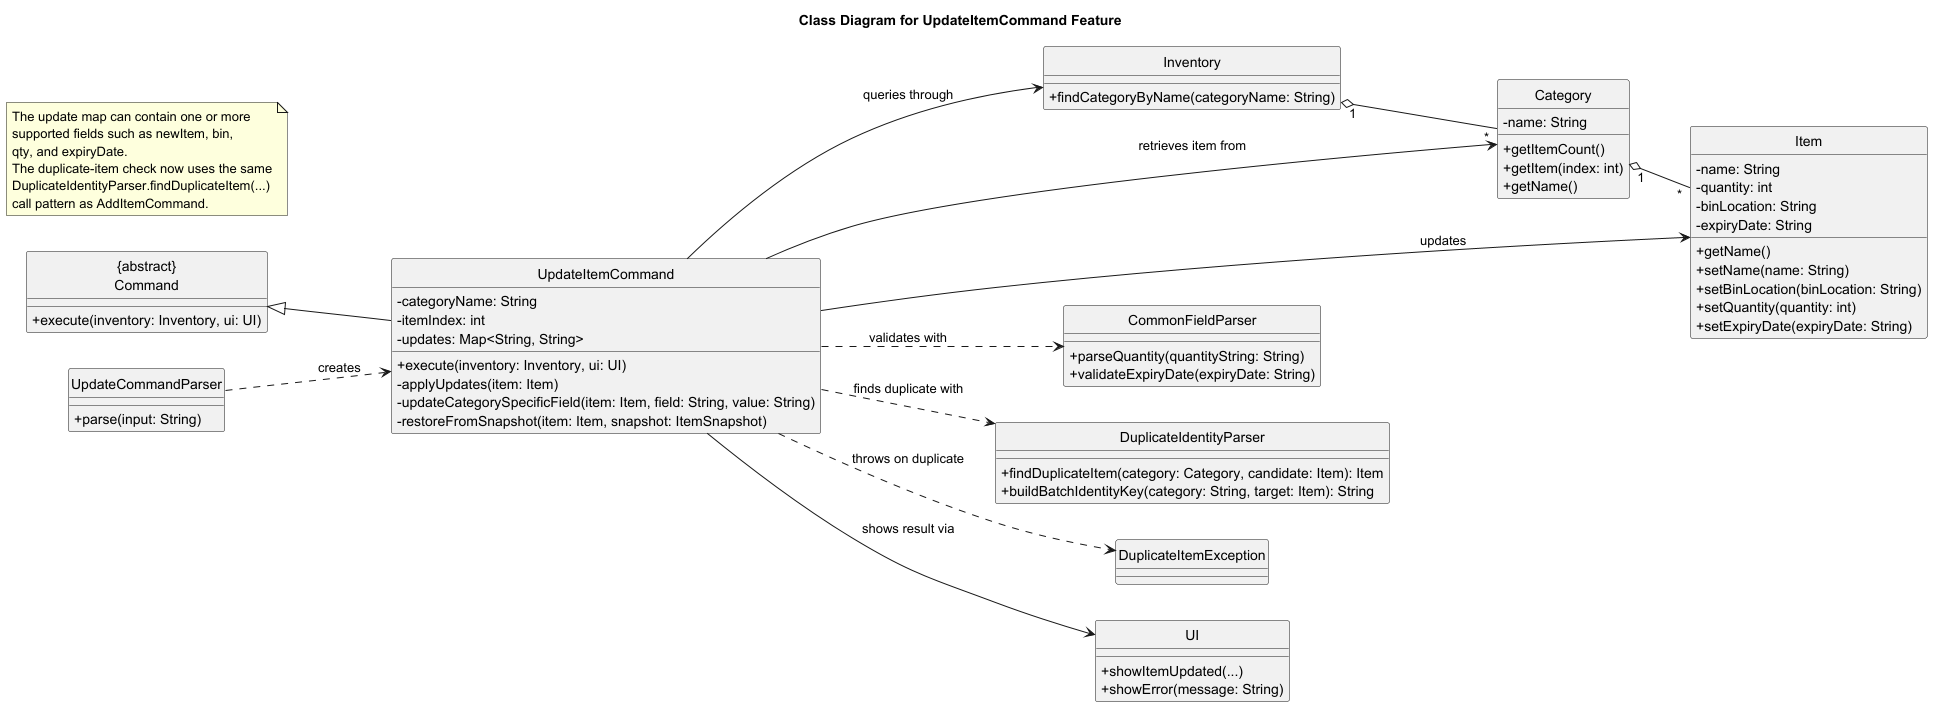
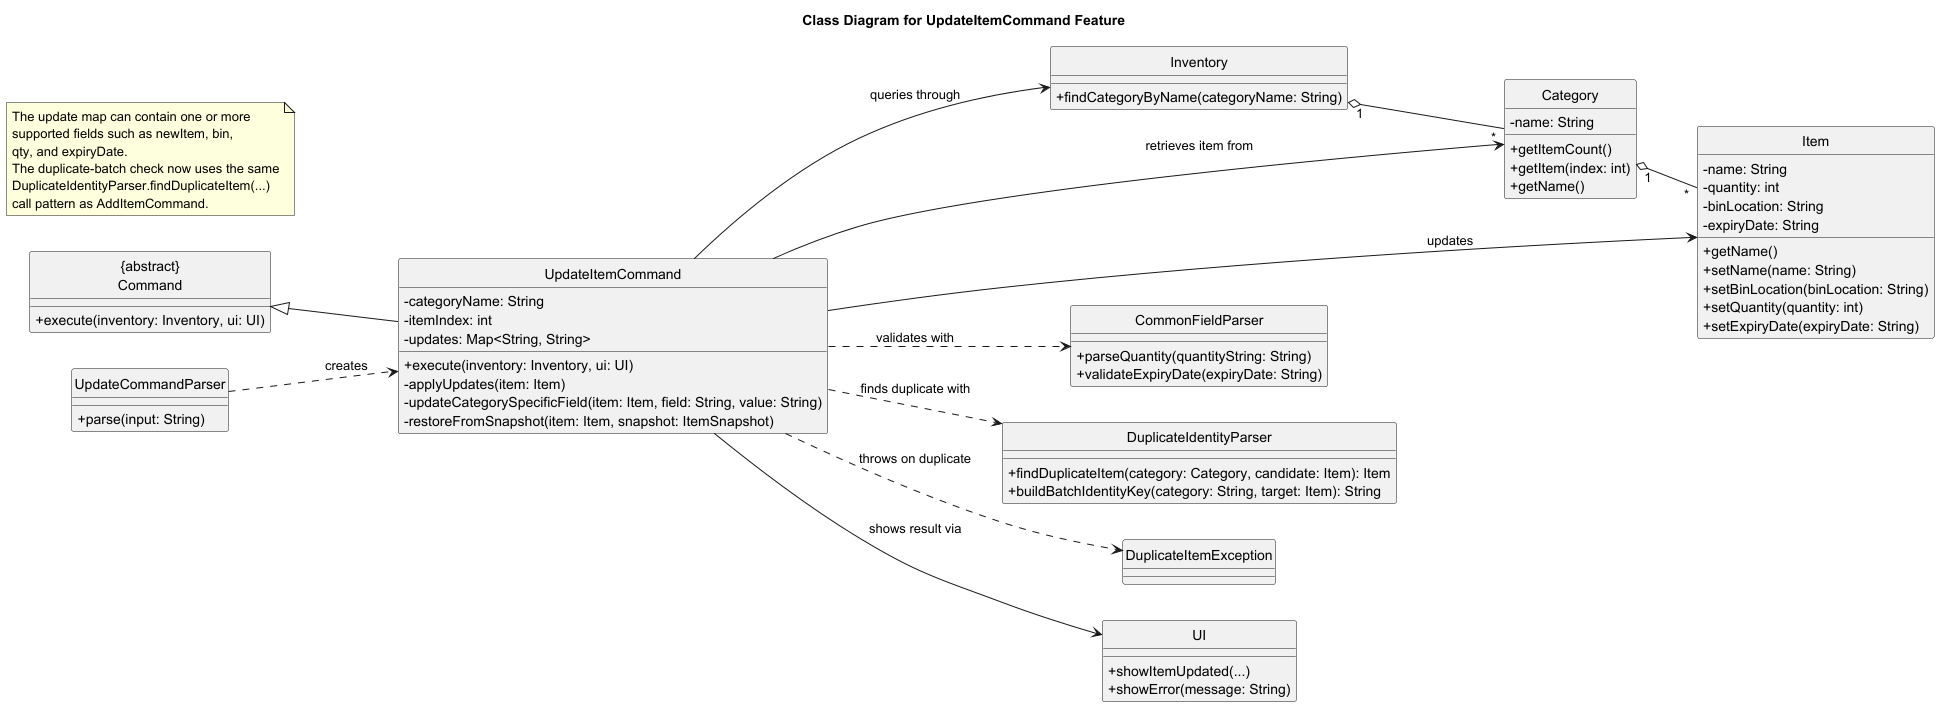
Bug fix

diff --git a/src/test/java/seedu/inventorydock/parser/DuplicateIdentityParserTest.java b/src/test/java/seedu/inventorydock/parser/DuplicateIdentityParserTest.java
@@ -9,9 +9,9 @@ import static org.junit.jupiter.api.Assertions.assertNotEquals;
 
 public class DuplicateIdentityParserTest {
     @Test
-    public void buildBatchIdentityKey_sameItemDifferentCase_returnsSameKey() {
+    public void buildBatchIdentityKey_sameLogicalBatchDifferentQtyAndBin_returnsSameKey() {
         Item firstItem = new Fruit("Apple", 2, "A-01", "2026-01-01", true);
-        Item secondItem = new Fruit("apple", 2, "A-01", "2026-01-01", true);
+        Item secondItem = new Fruit("apple", 10, "B-09", "2026-01-01", true);
 
         String firstKey = DuplicateIdentityParser.buildBatchIdentityKey("fruits", firstItem);
         String secondKey = DuplicateIdentityParser.buildBatchIdentityKey("fruits", secondItem);
@@ -20,7 +20,7 @@ public class DuplicateIdentityParserTest {
     }
 
     @Test
-    public void buildBatchIdentityKey_differentItemFields_returnsDifferentKey() {
+    public void buildBatchIdentityKey_differentLogicalBatch_returnsDifferentKey() {
         Item firstItem = new Fruit("Apple", 2, "A-01", "2026-01-01", true);
         Item secondItem = new Fruit("Apple", 10, "B-09", "2026-02-01", true);
 

diff --git a/src/main/java/seedu/inventorydock/parser/DuplicateIdentityParser.java b/src/main/java/seedu/inventorydock/parser/DuplicateIdentityParser.java
@@ -5,7 +5,7 @@ import seedu.inventorydock.model.Item;
 
 /**
  * Builds normalized identity keys used for duplicate-item checks.
- * The key compares the full stored item identity case-insensitively.
+ * The key ignores qty and bin fields so only logical batch identity is compared.
  */
 public class DuplicateIdentityParser {
     /**
@@ -24,6 +24,9 @@ public class DuplicateIdentityParser {
 
         String[] tokens = storageString.split(" ");
         for (String token : tokens) {
+            if (token.startsWith("qty/") || token.startsWith("bin/")) {
+                continue;
+            }
             key.append(token.toLowerCase()).append(" ");
         }
 
@@ -32,7 +35,7 @@ public class DuplicateIdentityParser {
 
     /**
      * Finds an existing item in the category that has the same duplicate identity as the candidate item.
-     * The duplicate identity compares all stored fields case-insensitively.
+     * The duplicate identity ignores qty and bin, and compares the remaining stored fields.
      *
      * @param category Category to scan.
      * @param candidate Item whose duplicate match is being searched.

diff --git a/docs/DeveloperGuide.md b/docs/DeveloperGuide.md
@@ -134,7 +134,7 @@ application. The feature follows this flow:
 3. `AddCommandParser` validates `category/`, extracts the category, and routes to the matching category-specific method in `AddItemCommandParser`.
 4. `AddItemCommandParser` validates the remaining fields, parses the shared fields and the category-specific boolean field, constructs the correct `Item` subtype, and creates an `AddItemCommand`. In the first diagram, this is illustrated using `Fruit` as the concrete example.
 5. `InventoryDock` executes the command with access to the current `Inventory` and `UI`.
-6. The command finds the target category, rejects duplicate items using a normalized identity key that includes all stored fields, then inserts the item or reports the error through `UI`.
+6. The command finds the target category, rejects duplicate logical batches using a normalized identity key (ignoring `qty/` and `bin/`), then inserts the item or reports the error through `UI`.
 
 Sequence diagrams:
 
@@ -195,7 +195,7 @@ The responsibilities of these classes are as follows:
   `category/`.
 - `AddItemCommandParser` coordinates common-field parsing, boolean-field parsing, and construction of the category-specific `Item` subtype.
 - `BooleanFieldParser` parses and validates the single boolean field required by each concrete `Item` subtype.
-- `AddItemCommand` performs duplicate-item checking and insertion into the inventory.
+- `AddItemCommand` performs duplicate-batch checking and insertion into the inventory.
 - `Inventory` finds the matching category by name.
 - `Category` stores the added item.
 - `Item` and its subclasses represent the domain object being created.
@@ -219,8 +219,8 @@ When the user enters an add command, the implementation performs the following s
 7. `InventoryDock` executes `AddItemCommand.execute(inventory, ui)`.
 8. `AddItemCommand` calls `inventory.findCategoryByName(categoryName)`.
 9. If the category exists, `AddItemCommand` calls `DuplicateIdentityParser.findDuplicateItem(category, item)`.
-10. The duplicate-item check compares all stored fields case-insensitively.
-11. If a duplicate item is found, `AddItemCommand` throws `DuplicateItemException` with
+10. The duplicate-batch check ignores `qty/` and `bin/`, and compares the remaining stored fields.
+11. If a duplicate batch is found, `AddItemCommand` throws `DuplicateItemException` with
     `Duplicate item found for category/<category> item/<item>.`.
 12. If no duplicate is found, `AddItemCommand` calls `category.addItem(item)`.
 13. `UI.showItemAdded(...)` displays the confirmation to the user.
@@ -256,7 +256,7 @@ new parser branch and item subtype rather than modifying one monolithic parsing 
 special cases.
 
 Third, it keeps command execution simple. By the time `AddItemCommand` runs, all parsing and object
-construction work has already been completed. The command only needs to find the category, validate duplicate item rules, and append
+construction work has already been completed. The command only needs to find the category, validate duplicate batch rules, and append
 the item.
 
 Another deliberate design choice is that the command adds only into an existing category rather than
@@ -280,8 +280,8 @@ fields are missing or malformed, they throw `InventoryDockException` before an `
 returns `null`, the command throws a `CategoryNotFoundException` with the message
 `Category not found: <categoryName>`. If the parsed item is unexpectedly 
 `null`, it throws a `MissingArgumentException` with the message `Item cannot be null.` It also
-checks for duplicate items in the same category using normalized identity keys across all stored
-fields and throws `DuplicateItemException` with
+checks for duplicate batches in the same category using normalized identity keys (ignoring `qty/`
+and `bin/`) and throws `DuplicateItemException` with
 `Duplicate item found for category/<category> item/<item>.` when a duplicate is detected.
 
 This layered approach ensures invalid input is rejected as early as possible, while still protecting
@@ -503,7 +503,7 @@ At a high level, the flow is as follows:
 * The user enters an `update` command.
 * `Parser` delegates the remaining input to `UpdateCommandParser`.
 * `UpdateCommandParser` extracts the category, item index, and the fields to be updated.
-* `UpdateItemCommand` locates the item, applies the updates, checks for duplicate-item conflicts, and
+* `UpdateItemCommand` locates the item, applies the updates, checks for duplicate-batch conflicts, and
   reports the result through `UI`.
 
 The main interaction for this flow is illustrated in below.
@@ -532,7 +532,7 @@ A representative object snapshot for this feature is shown below.
 * `UpdateCommandParser` scans field markers, validates `category/`, `index/`, and `bin/`, stores the
   requested changes in a `Map<String, String>`, and constructs an `UpdateItemCommand`.
 * `UpdateItemCommand` locates the item, applies the requested changes, rolls back on validation
-  failure, and rejects duplicate-item collisions.
+  failure, and rejects duplicate-batch collisions.
 * `Inventory`, `Category`, and `Item` provide category lookup, indexed item access, and field mutation.
 * `CommonFieldParser` is reused for quantity and expiry-date validation so update rules stay aligned
   with add-command validation.
@@ -1182,8 +1182,8 @@ This section provides instructions for manually testing the application.
    - `add category/fruits bin/A-1 qty/10 expiryDate/2026-4-01 isRipe/true`.
 9. Verify that the application shows a `Missing input` error for the missing field.
 10. Run `add category/fruits item/apple bin/B-9 qty/99 expiryDate/2026-4-01 isRipe/true`.
-11. Verify that the application rejects it with a `Conflict` error for a duplicate item.
-12. Verify through `list` that no second identical item was added to `fruits`.
+11. Verify that the application rejects it with a `Conflict` error for a duplicate logical batch.
+12. Verify through `list` that no second identical batch was added to `fruits`.
 13. Run `add category/fruits item/apple bin/C-1 qty/5 expiryDate/2026-4-02 isRipe/true`.
 14. Verify through `list` that this different batch is allowed and appears under `fruits`.
 

diff --git a/docs/UserGuide.md b/docs/UserGuide.md
@@ -91,18 +91,18 @@ Expected result:
 * The item is added to the specified category.
 * The app confirms the item name, quantity, category, and bin location after the add command has been parsed and executed successfully.
 * Each category uses the same overall add-command structure, with a different category-specific boolean field such as `isRipe/`, `isLeafy/`, or `isCarbonated/`.
-* Duplicate rule for `add`:
-  * Duplicate checking compares the full item case-insensitively.
-  * This includes `category/`, `item/`, `bin/`, `qty/`, `expiryDate/`, and the category-specific boolean field.
-  * If another item in the same category is fully identical, the command is rejected with `Duplicate item found for category/CATEGORY item/ITEM.`
+* Duplicate-batch rule for `add`:
+  * Duplicate checking ignores only `qty/` and `bin/`.
+  * The logical batch identity still includes `category/`, `item/`, `expiryDate/`, and the category-specific boolean field.
+  * If another item in the same category has the same logical batch identity, the command is rejected with `Duplicate item found for category/CATEGORY item/ITEM.`
 
 Example (`fruits`: `isRipe/`):
 * Existing add command:
   * `add category/fruits item/apple bin/A-10 qty/10 expiryDate/2026-6-5 isRipe/true`
-* This command causes the duplicate exception (same item, different letter case only):
-  * `add category/fruits item/Apple bin/A-10 qty/10 expiryDate/2026-6-5 isRipe/true`
+* This command causes the duplicate exception (only `bin/` and `qty/` changed):
+  * `add category/fruits item/apple bin/B-20 qty/99 expiryDate/2026-6-5 isRipe/true`
   Result: `Duplicate item found for category/fruits item/apple.`
-* This command is allowed because at least one stored field changed (`expiryDate/` changed):
+* This command is allowed as a new batch of items (`expiryDate/` changed):
   * `add category/fruits item/apple bin/B-20 qty/99 expiryDate/2026-6-6 isRipe/true`
 
 ### Find items by keyword: `find keyword/...`
@@ -296,7 +296,7 @@ Notes:
 * Category-specific boolean fields such as `isRipe/`, `isCarbonated/`, or `isFrozen/` can also be updated, but only for items in the matching category.
 * `newItem/` supports names with spaces, for example `newItem/sour cream chips`.
 * `bin/` must use the exact `LETTER-NUMBER` format, for example `A-2`.
-* `update` uses the same duplicate rule as `add`: the updated item must not become fully identical to another item in the same category.
+* `update` uses the same duplicate-batch rule as `add`: only `qty/` and `bin/` are ignored when checking for duplicates.
 Examples:
 
 * `update category/fruits index/1 qty/25`
@@ -367,7 +367,7 @@ Common reasons a command may fail:
 * invalid bin search format
 * invalid item index
 * unsupported update fields
-* duplicate item during add or update
+* duplicate logical batch during add or update
 * unknown categories or commands
 
 When an error occurs, the app prints an error message and waits for the next command.
